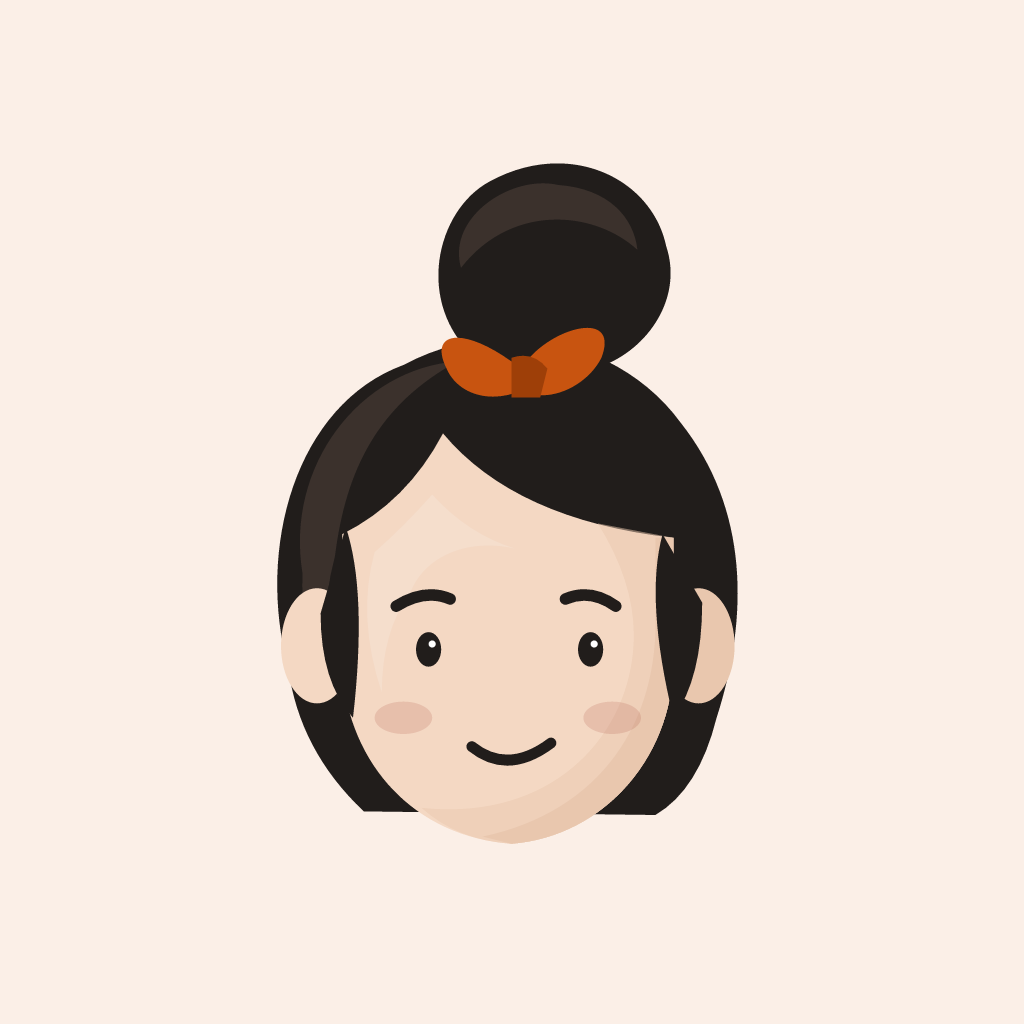
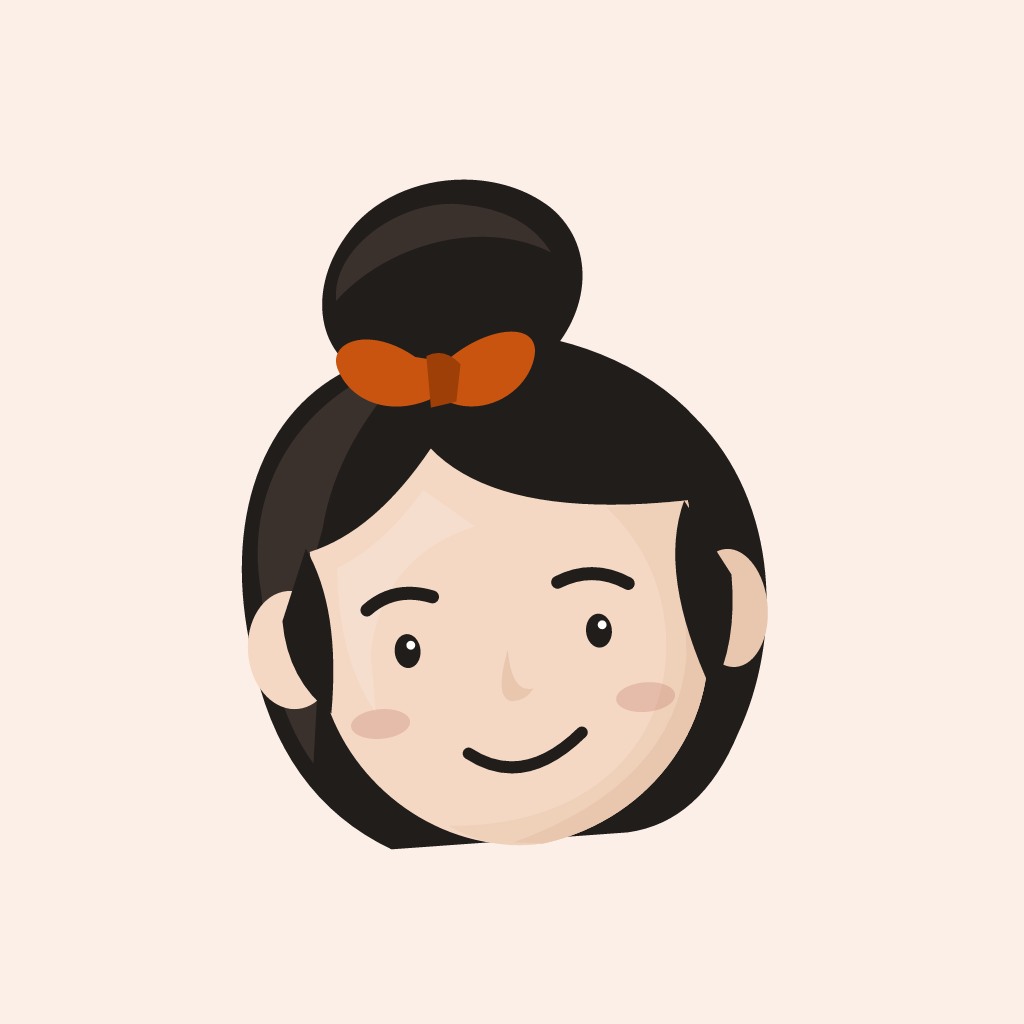
feat(PIN-0017): swap to the second brand delivery
เกรพ supplied `Pinto-New-Design-System.zip` after the first delivery was
installed, and asked for it to be used instead. Every mark is redrawn: a
custom-drawn `pinto` wordmark with an orange dot on the i, and a mascot with
real modelling in the apron, box and shoulder.

Audited with the same checks as the first delivery, all passed. Same 9
filenames, so `public/pinto/` is a drop-in. The LINE icon's ground is opaque
`#FBEFE7`, so LINE's circle crop will not reveal a hole.

The ratios changed, not just the sizes — the lockup went 199x68 -> 270x78 and
the mascot crops 360x294 / 240x240 / 40x40 -> 550x465 / 440x440 / 240x240. That
is the same shape as the bug PIN-0017 already fixed once, so the ratio now has a
single source: every call site passes one dimension and `fit()` derives the
other, and a new test reads each SVG's `viewBox` and compares it against the
width and height the app actually emits.

The login page moves back to the `full` crop at 300px. The first delivery could
not carry it — its notification chip sat too close to the figure to read at the
card's size, so that version shipped `bust` at 168px. The redrawn chip sits
clear of the face, the card's 304px of content clears the handoff's 300px floor,
and `full` on login is what the second handoff recommends.

Re-measured on both pages at 1440 / 1024 / 981 / 900 / 760 / 390: no squashed
brand, no overlap with the nav label, no broken images, ratios held everywhere.
[…]

diff --git a/app/login/page.tsx b/app/login/page.tsx
@@ -24,10 +24,13 @@ export default async function LoginPage() {
   return (
     <main className="login-shell">
       <div className="panel login-card">
-        {/* `bust` not `full`: the login card is ~304px wide, and the handoff sets 300px as the
-            floor for the notification chip to be readable. Below that it is grey noise that
-            also pushes the figure off-centre. */}
-        <PintoMascot variant="bust" width={168} height={168} className="login-mascot" />
+        {/* `full` at the handoff's 300px floor, which is exactly what the card's 304px of
+            content allows. The first delivery could not carry it — its chip sat too close to
+            the figure to survive the crop — so this page ran `bust` at 168px. The redrawn
+            artwork moves the chip clear of the face, and at 300px it reads. Below 400px the
+            card narrows to 286px and `.login-mascot`'s max-width scales it down from there.
+            Only the width is given: `fit()` derives the height, so the ratio has one source. */}
+        <PintoMascot variant="full" width={300} className="login-mascot" />
         <h1><PintoLogo height={30} /></h1>
         <p className="login-tagline">จัดการร้านออนไลน์ครบทุกช่องทางจากที่เดียว</p>
 

diff --git a/app/components/PintoBrand.tsx b/app/components/PintoBrand.tsx
@@ -18,11 +18,22 @@
  */
 /* eslint-disable @next/next/no-img-element */
 
+/*
+ * Sizes are the handoff's recommended display sizes, not the raw `viewBox` — `fit()` only
+ * needs the ratio, and these double as the default when the caller gives neither dimension.
+ * Ratios match the artwork exactly: full 550x465, bust 440x440, head 240x240.
+ */
 const MASCOT = {
-  full: { file: "mascot-full.svg", width: 360, height: 294 },
+  full: { file: "mascot-full.svg", width: 330, height: 279 },
   bust: { file: "mascot-bust.svg", width: 240, height: 240 },
   head: { file: "mascot-head.svg", width: 40, height: 40 },
 } as const;
+
+/** viewBox 270x78. The wordmark is drawn as paths, so it carries no font dependency. */
+const LOCKUP = { w: 270, h: 78 };
+/** viewBox 240x240. `logo-mark.svg` and `mascot-head.svg` are the same artwork, shipped
+ *  under both names because the handoff gives them different roles. */
+const MARK = { w: 40, h: 40 };
 
 export type MascotVariant = keyof typeof MASCOT;
 
@@ -86,7 +97,7 @@ export function PintoLogo({
   className?: string;
 }) {
   const file = markOnly ? "logo-mark.svg" : "logo-lockup.svg";
-  const box = fit(markOnly ? { w: 40, h: 40 } : { w: 199, h: 68 }, width, height);
+  const box = fit(markOnly ? MARK : LOCKUP, width, height);
   return (
     <img
       src={`/pinto/${file}`}

diff --git a/app/components/AppSidebar.tsx b/app/components/AppSidebar.tsx
@@ -13,7 +13,7 @@ export function AppSidebar({ view, activeCount, mobileMenuOpen, signedInAs, canS
         {/* Both marks ship; CSS picks one. The collapsed sidebar is 82px wide, too narrow
             for the wordmark to stay legible, so it falls back to the mark alone. */}
         <PintoLogo height={30} className="brand-lockup" />
-        <PintoLogo markOnly width={34} height={34} className="brand-mark-only" />
+        <PintoLogo markOnly width={34} className="brand-mark-only" />
         <small className="brand-sub">Commerce Center</small>
       </button>
       <small className="nav-label">เมนูหลัก</small>

diff --git a/app/components/DataUnavailable.tsx b/app/components/DataUnavailable.tsx
@@ -13,7 +13,7 @@ export function DataUnavailable({ detail }: { detail?: string }) {
   return (
     <main className="data-unavailable">
       <div className="panel">
-        <PintoLogo markOnly width={38} height={38} className="brand-mark" />
+        <PintoLogo markOnly width={38} className="brand-mark" />
         <span className="unavailable-icon"><TriangleAlert size={22} strokeWidth={1.9} /></span>
         <h1>ยังไม่สามารถโหลดข้อมูลร้านได้</h1>
         <p>

diff --git a/.codex/tasks/tickets/PIN-0017.md b/.codex/tasks/tickets/PIN-0017.md
@@ -2,10 +2,14 @@
 
 **Type:** Feature · **Phase:** 5 · **Status:** Review
 
-Brief: `.codex/specs/design-system-brief.md`. Artwork delivered as
-`Pinto-Final-Design-System.zip` on 2026-09-10 and audited against the brief before use.
+Brief: `.codex/specs/design-system-brief.md`.
 
-## Incoming audit — passed
+**Two deliveries.** `Pinto-Final-Design-System.zip` was installed first. เกรพ then supplied
+`Pinto-New-Design-System.zip` the same day and asked for it to be used instead, as the
+prettier and more complete of the two. The second delivery is what ships; the first is
+recorded here only because its measurements explain some of the notes below.
+
+## Incoming audit — first delivery, passed
 | Check from the brief | Result |
 | --- | --- |
 | SVG: `viewBox` only, no root width/height | ✅ all 6 |
@@ -24,6 +28,35 @@ Brief: `.codex/specs/design-system-brief.md`. Artwork delivered as
 `#211D1B` and disappears on dark. Pinto's UI is light throughout, so nothing needs it
 today; noted in case a dark surface ever carries the logo.
 
+## Incoming audit — second delivery, passed
+Same checks, re-run against `Pinto-New-Design/`. Everything above still holds, plus:
+
+| Check | Result |
+| --- | --- |
+| Same 9 filenames, so the swap is a drop-in | ✅ identical file list |
+| SVG: `viewBox` only, no root width/height, no `id`, no text/font, no raster | ✅ all 6 |
+| Colours confined to the agreed palette | ✅ 14 colours, all in `tokens.json` |
+| LINE icon 1024×1024, under 3 MB | ✅ 1024×1024, 47 KB |
+| LINE icon has an opaque ground for the circle crop | ✅ `#FBEFE7`, alpha 255 |
+| OG image 1200×630 | ✅ |
+| Head legible at 16/20/32px, LINE circle crop | ✅ checked against `small-size-preview.png` |
+| Notification chip clear of the face | ✅ sits left of the phone, readable at 300px |
+| Wordmark carries no font dependency | ✅ drawn as paths |
+
+**What changed in the artwork.** Every mark was redrawn. The lockup went from 199×68 to
+270×78, the mascot crops from 360×294 / 240×240 / 40×40 to 550×465 / 440×440 / 240×240.
+Ratios, not just sizes — which is why `PintoBrand` now derives every dimension from one
+declared ratio and a test compares that against each file's `viewBox`.
+
+**Also delivered but not installed here:** `design-tokens.css`, `tokens.json`,
+`design-system.html`, `brand-board.png`, `dashboard-preview.png`, the Noto Sans Thai font
+files, and PNG copies of all six marks. The app already loads Noto Sans Thai and SVG needs
+no raster fallback, so `public/pinto/` stays at the 9 files it needs. The tokens and the
+tone rules are PIN-0018.
+
+**Noted:** `logo-mark.svg` and `mascot-head.svg` are byte-identical in both deliveries. Both
+names ship because the handoff gives them different roles.
+
 ## Scope — additive only
 1. `assets/` → `public/pinto/`
 2. A `PintoLogo` / `PintoMascot` component pair, adapted from the supplied
@@ -40,11 +73,11 @@ screen and belong in PIN-0018.
 ## Acceptance criteria
 - [x] Assets served from `public/pinto/` (9 files).
 - [x] Sidebar and login render the real logo; no Lucide `Store` placeholder remains.
-- [x] The login page shows the mascot — **`bust`, not `full`** (see review note 2).
+- [x] The login page shows the mascot — `full` at 300px (see review note 2).
 - [x] favicon and OG metadata point at the new files; no blue template icon anywhere.
 - [x] Decorative images are hidden from screen readers; meaningful ones carry Thai alt text.
 - [x] Renders at 1440 / 1024 / 760 / 390 — measured, see the table below.
-- [x] `npx tsc --noEmit`, `npm run build`, `npm run lint`, `npm test` (26) pass.
+- [x] `npx tsc --noEmit`, `npm run build`, `npm run lint`, `npm test` (27) pass.
 
 ## Review notes
 
@@ -58,15 +91,23 @@ content exceeded the viewport, `.brand` shrank to 36px, and its overflow landed 
 "เมนูหลัก". Measured `clientHeight: 36` against `scrollHeight: 53`. Fixed with
 `flex: 0 0 auto`; `.sidebar` already has `overflow-y: auto` to absorb the difference.
 
-**2. The `full` mascot crop is illegible on the login card.** The card is 360px wide and the
-mascot renders at 168px, well under the 300px floor the brief sets for the notification chip.
-At that size the chip is grey noise and pushes the figure off-centre, so the login page uses
-`bust`, which carries no chip. This deviates from the ticket's original wording on purpose.
+**2. The login mascot: `bust` under the first delivery, `full` under the second.** The brief
+sets 300px as the floor for the notification chip to read. The first delivery's `full` crop
+put the chip too close to the figure to survive at the card's size, so that version shipped
+`bust` at 168px with no chip. The redrawn `full` moves the chip clear of the face, and the
+card's 304px of content is just over the floor, so it now ships `full` at 300px — which is
+also what the second handoff recommends for login. Below a 400px viewport the card narrows
+to 286px and `.login-mascot`'s `max-width` scales the artwork down with its ratio intact.
 
 **3. `PintoBrand` distorted the lockup.** Passing `height={30}` emitted the intrinsic
 `width="199"` alongside it, rendering the 199×68 artwork as 199×30. The `fit()` helper now
-derives the missing dimension from the artwork's own ratio; the served markup reads
-`width="88" height="30"`.
+derives the missing dimension from the artwork's own ratio.
+
+The second delivery turned this from a fixed bug into a standing risk: the lockup's ratio
+changed from 199:68 to 270:78, so a stale table in TypeScript would have distorted it again.
+Every call site now passes **one** dimension and lets `fit()` derive the other, so the ratio
+has a single source, and a test compares what the app emits against each file's `viewBox`.
+The served markup reads `width="104" height="30"`.
 
 **4. The collapsed sidebar showed a 14px-tall smear.** Below 980px the sidebar is 82px wide.
 The lockup scaled down to 41×14 — the wordmark unreadable — and "Commerce Center" wrapped to
@@ -84,27 +125,47 @@ Two CSS traps inside fix 4, both now covered by tests:
 
 ### Measured at each breakpoint
 
+Re-measured after the second delivery, since every ratio changed.
+
 | Width | Sidebar | Brand shows | `.brand` squashed | Sub-label over nav label |
 | --- | --- | --- | --- | --- |
-| 1440 | 236px | lockup 88×30 + sub | no | no |
-| 1024 | 236px | lockup 88×30 + sub | no | no |
-| 981 | 236px | lockup 88×30 + sub | no | no |
+| 1440 | 236px | lockup 104×30 + sub | no | no |
+| 1024 | 236px | lockup 104×30 + sub | no | no |
+| 981 | 236px | lockup 104×30 + sub | no | no |
 | 900 | 82px | mark 34×34 only | no | n/a (both hidden) |
 | 760 | bottom bar | brand hidden | n/a | n/a |
 | 390 | bottom bar | brand hidden | n/a | n/a |
 
-Login page measured at 1440 / 1024 / 760 / 390: card centred, mascot centred within it,
-lockup 88×30, no horizontal overflow at any width.
+Login page, all four breakpoints: card centred, mascot centred within it, lockup 104×30,
+no broken images, no horizontal overflow.
+
+| Width | Card | Mascot rendered | Ratio held |
+| --- | --- | --- | --- |
+| 1440 / 1024 / 760 | 360px | 300×254 | yes |
+| 390 | 342px | 284×240 | yes |
+
+**Found while measuring, out of scope, filed as PIN-0019:** the dashboard's document is
+729px wide at a 390px viewport, so the page scrolls sideways on a phone. Pre-existing —
+`git show db000dd~1:app/globals.css` has the same rule ordering — and the same trap as
+note 4: an unconditional `.overview-grid` rule appended after the ≤760px media query.
 
 ### Orphan CSS removed
 `.brand-copy` (7 rules across 4 cascade layers) and `.brand strong` — both belonged to the
 text wordmark the SVG lockup replaced, and neither matched any element after the swap.
 
 ### Tests
-One new test, `the sidebar brand survives both CSS traps it fell into`, with five guards.
-Each was falsified individually by breaking the thing it protects: removing `flex: 0 0 auto`,
-reversing the toggle's source order, unscoping either toggle, and re-adding `.brand-copy`.
-All five failed as expected and pass when restored. Suite: 26/26.
+Two new tests, nine guards, each falsified individually by breaking the thing it protects.
+
+`the sidebar brand survives both CSS traps it fell into` — removing `flex: 0 0 auto`,
+reversing the toggle's source order, unscoping either toggle, re-adding `.brand-copy`.
+
+`every brand image is emitted at the artwork's own aspect ratio` — reads each SVG's `viewBox`
+and compares it against the width and height the app actually emits. Falsified by restoring
+the first delivery's lockup ratio, by drifting the mascot and mark ratios, and by dropping
+one dimension from the emitted tag. The first of those is the real bug reproduced: it is
+exactly what a third delivery would do if the ratio table were not updated.
+
+Suite: 27/27.
 
 ### Known gap carried forward
 The lockup still has no dark-background variant. Not needed today; PIN-0018 should decide

diff --git a/.codex/tasks/tickets/PIN-0018.md b/.codex/tasks/tickets/PIN-0018.md
@@ -1,0 +1,41 @@
+# PIN-0018 — Design tokens and the quiet-chrome tone pass
+
+**Type:** Feature · **Phase:** 5 · **Status:** Backlog
+
+The half of the design system PIN-0017 deliberately left alone. PIN-0017 installed the
+artwork; this applies the rules that go with it. Reference: `Pinto-New-Design/` —
+`design-tokens.css`, `tokens.json`, `HANDOFF.md`, and `dashboard-preview.png`, which is the
+delivered picture of what "quiet chrome" means on Pinto's own Today screen.
+
+## Scope
+1. **Tokens.** Merge `design-tokens.css` into `app/globals.css`. Rename `--green`, which
+   already holds an orange, to `--brand`, then check every reference before deleting the
+   leftover vinext `:root`. The handoff is explicit that `tokens.css` must **not** replace
+   `globals.css` wholesale — it carries the guide's own page styles.
+2. **Tone.** Cards white on `#F5F0EC`, 1px `#EBE4DF` border, radius 8px, **no shadows**.
+   Buttons radius 7px; secondary buttons are plain text. Large numbers weight 600. Change
+   deltas are plain text, not pills. Roughly four orange elements per screen.
+3. **Type and spacing.** Base 15px / 1.55. Spacing scale 4/8/12/16/20/24/32.
+4. **Icons.** Lucide 18–21px, stroke 1.9. Tap targets at least 44px with a visible focus ring.
+
+## Open decisions
+- **`.brand-sub` ("Commerce Center").** Added in PIN-0017; the delivered
+  `dashboard-preview.png` shows the lockup alone with no sub-label. Keep it or drop it.
+- **Contrast.** The handoff flags that `--soft` and some status pairs fail contrast for small
+  text. Decide where `--ink` must be used instead, and make sure colour is never the only
+  carrier of meaning.
+- **Empty states.** The delivered guide uses `mascot-bust.svg` on its empty state.
+  `DataUnavailable` is an outage page rather than an empty list, so it currently shows the
+  logo mark. Decide whether Pinto's genuine empty lists should carry the mascot.
+
+## Warning carried over from PIN-0017
+`app/globals.css` is a stack of appended override layers, and **media queries add no
+specificity**. Any token or tone rule appended at the end will beat every media query above
+it. PIN-0019 exists because that already happened to `.overview-grid`. Do PIN-0019's audit
+first, or do it as part of this ticket.
+
+## Acceptance criteria
+- [ ] One `:root`, no `--green`, no orphaned references.
+- [ ] Tone rules applied and checked against `dashboard-preview.png`.
+- [ ] Renders at 1440 / 1024 / 760 / 390 with no horizontal overflow.
+- [ ] `npx tsc --noEmit`, `npm run build`, `npm run lint`, `npm test` pass.

diff --git a/.codex/tasks/tickets/PIN-0019.md b/.codex/tasks/tickets/PIN-0019.md
@@ -1,0 +1,44 @@
+# PIN-0019 — The dashboard scrolls sideways on a phone
+
+**Type:** Bug · **Phase:** 5 · **Status:** Backlog
+
+Found while verifying PIN-0017 at the four agreed breakpoints. **Pre-existing, not caused by
+that ticket** — `git show db000dd~1:app/globals.css` has the same ordering.
+
+## The defect
+At a 390px viewport the dashboard's document is **729px wide**, so the whole page scrolls
+horizontally. 126 elements extend past the right edge. The layout is rendering its desktop
+two-column form inside a phone-width viewport.
+
+Measured in the running app:
+
+| | value |
+| --- | --- |
+| viewport | 390px |
+| `document.scrollWidth` | 729px |
+| `.overview-grid` computed columns | `473.32px 227.672px` |
+| `.overview-grid` width | 716px |
+
+The mobile rules themselves are fine: `matchMedia('(max-width: 760px)')` matches,
+`.app-shell` is correctly `display: block`, and the sidebar is correctly a fixed bottom bar.
+
+## Cause
+`app/globals.css` is a stack of appended override layers. The ≤760px rule collapsing the
+grid sits at line 351; an **unconditional** `.overview-grid` rule sits at line 400. Media
+queries add no specificity, so the later unconditional rule wins at every width and the
+mobile rule never takes effect.
+
+```
+351   @media (max-width: 760px) { … .overview-grid { grid-template-columns: 1fr; } … }
+400   .overview-grid { grid-template-columns: minmax(0, 1.58fr) minmax(226px, .76fr); … }
+```
+
+This is the same trap PIN-0017 hit with the brand mark toggle, so it is likely not the only
+instance. **Audit every unconditional rule that appears after a media query in this file**
+rather than fixing `.overview-grid` alone.
+
+## Acceptance criteria
+- [ ] `document.scrollWidth === innerWidth` on every view at 390px and 760px.
+- [ ] The audit above is done and its other findings are either fixed or listed here.
+- [ ] A test guards the invariant, so a future appended layer cannot silently reintroduce it.
+- [ ] No regression at 1440 / 1024.

diff --git a/.codex/tasks/backlog.md b/.codex/tasks/backlog.md
@@ -3,3 +3,5 @@
 | Ticket | Title | Phase |
 | --- | --- | --- |
 | PIN-0014 | LINE Login provider (needs a LINE Login channel) | 4 |
+| PIN-0018 | Design tokens and the quiet-chrome tone pass | 5 |
+| PIN-0019 | The dashboard scrolls sideways on a phone | 5 |
